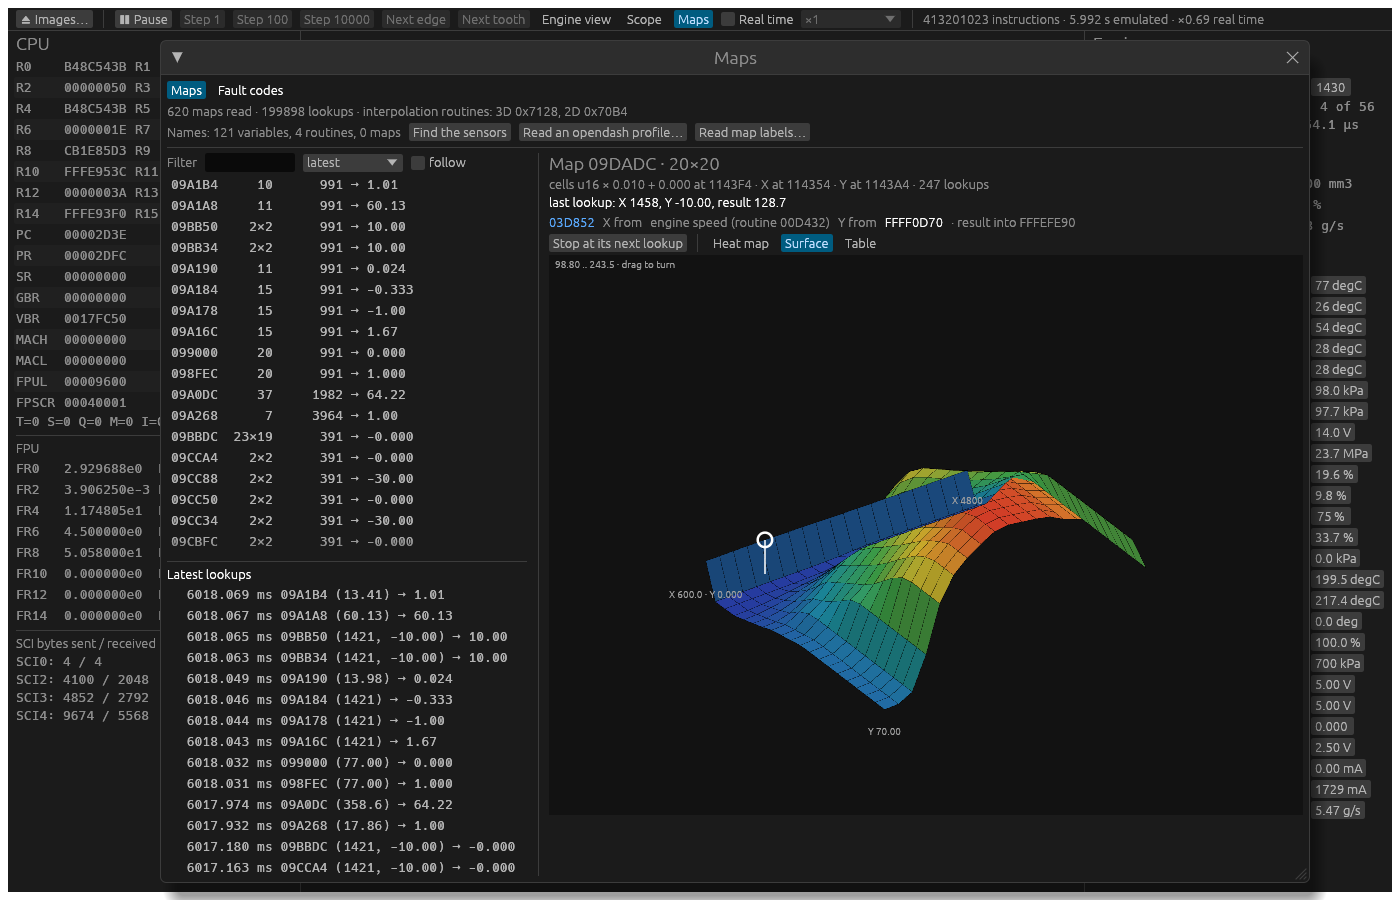
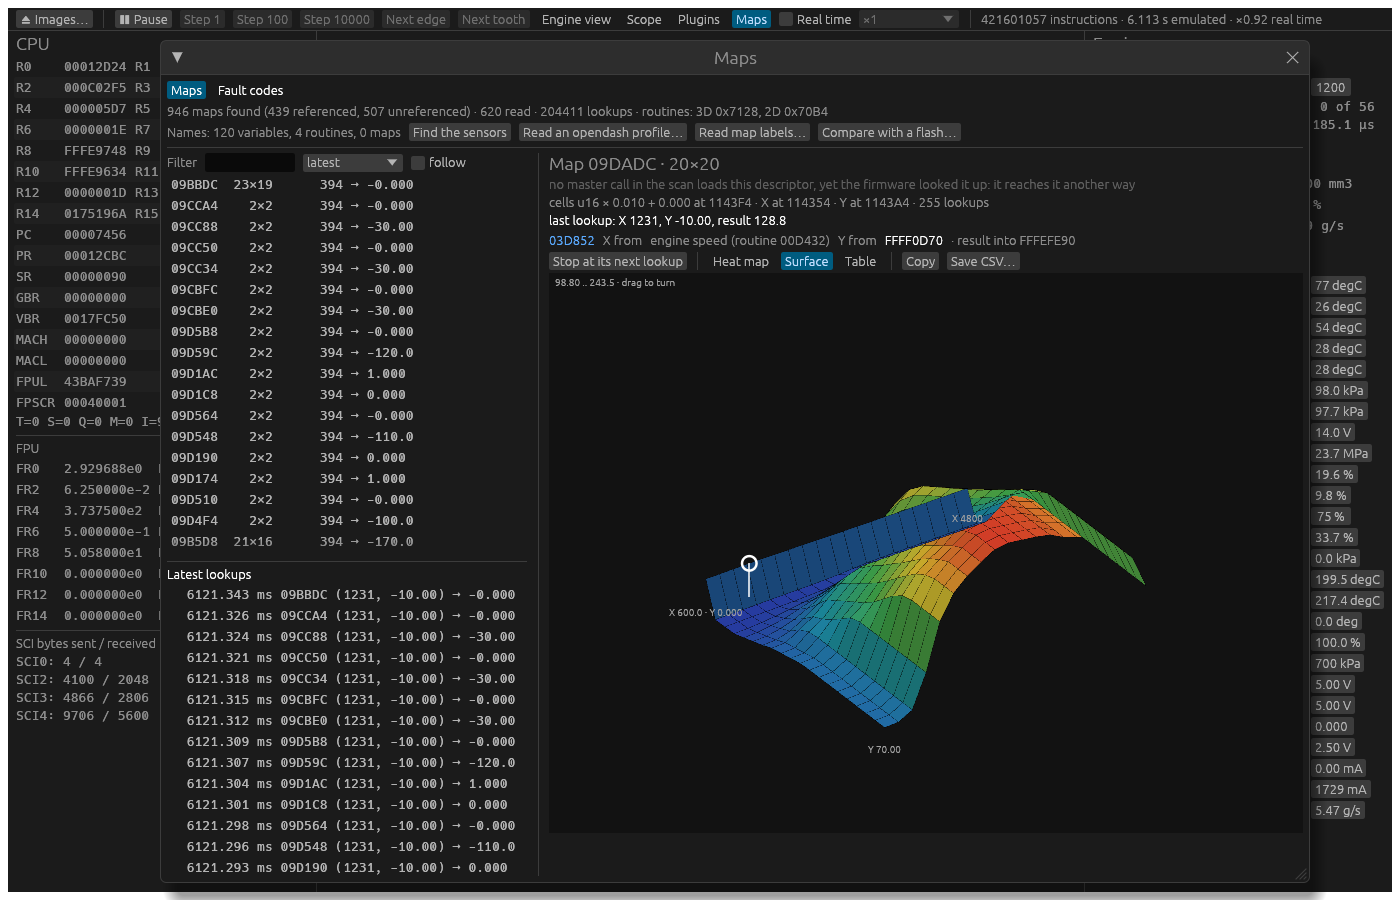
README: comparing with another flash and changing a map, with screenshots; the J2534 DLLs in the download list
- screenshots_map_tools: gui-maps-compare.png and gui-maps-edit.png from the Astra's flash
- a map the scan finds no master call for, but the firmware looks up, is no longer called
  unused nor dimmed in the list

diff --git a/crates/gui/src/app.rs b/crates/gui/src/app.rs
@@ -1252,6 +1252,86 @@ mod tests {
         t.join().unwrap();
     }
 
+    /// The bytes that put `f` of each chosen cell of `map` in its place.
+    fn scaled(map: &session::maps::Map, cells: &[usize], f: f32) -> Vec<(u32, u8)> {
+        let mut writes = Vec::new();
+        for &k in cells {
+            let bytes = crate::mapview::encode(map, map.z[k] * f).expect("fits");
+            let at = map.z_at + k as u32 * map.cell.bytes();
+            writes.extend(
+                bytes
+                    .into_iter()
+                    .enumerate()
+                    .map(|(n, b)| (at + n as u32, b)),
+            );
+        }
+        writes
+    }
+
+    /// The upper-right quarter of a map: high on both axes.
+    fn top_quarter(map: &session::maps::Map) -> Vec<usize> {
+        (0..map.z.len())
+            .filter(|k| k % map.nx() >= map.nx() / 2 && k / map.nx() >= map.ny() / 2)
+            .collect()
+    }
+
+    #[test]
+    #[ignore = "writes docs/img; needs SH705X_FLASH and a GPU or WARP"]
+    fn screenshots_map_tools() {
+        const BOOST: u32 = 0x9DADC;
+        let dir = std::path::Path::new(env!("CARGO_MANIFEST_DIR")).join("../../docs/img");
+        let Some((mut app, t)) = tracing_maps() else {
+            return;
+        };
+        let read = |flash: &[u8], d: u32| {
+            session::maps::Map::read3d(&|a| flash.get(a as usize).copied().unwrap_or(0), d).unwrap()
+        };
+        // A modified file: the boost target 8 % up and the quantity limit 5 % up, both at
+        // high speed and load, as a tuner would.
+        let mut other = app.flash.to_vec();
+        for (d, f) in [(BOOST, 1.08), (0x9B00C, 1.05)] {
+            let map = read(&other, d);
+            for (a, b) in scaled(&map, &top_quarter(&map), f) {
+                other[a as usize] = b;
+            }
+        }
+        app.maps_view = true;
+        app.maps.compare_with("modified.bin", other);
+        app.maps.selected = Some(BOOST);
+        app.maps.mode = crate::mapview::Mode::Diff;
+        let mut h = egui_kittest::Harness::builder()
+            .with_size(egui::vec2(1400.0, 900.0))
+            .build_ui_state(|ui, app: &mut App| app.draw(ui), app);
+        h.run_steps(3);
+        let path = dir.join("gui-maps-compare.png");
+        h.render().unwrap().save(&path).unwrap();
+        eprintln!("{}", path.display());
+        h.state().send(Cmd::Quit);
+        t.join().unwrap();
+        // Three cells of the boost target changed in the running ECU, a fourth chosen.
+        let Some((mut app, t)) = tracing_maps() else {
+            return;
+        };
+        let map = read(&app.flash, BOOST);
+        let row = map.ny() / 2;
+        let cells: Vec<usize> = (3..6).map(|i| row * map.nx() + i).collect();
+        app.poke(scaled(&map, &cells, 1.1));
+        let text = format!("{}", map.at(6, row) * 1.1);
+        app.maps_view = true;
+        app.maps.selected = Some(BOOST);
+        app.maps.mode = crate::mapview::Mode::Table;
+        app.maps.edited_cells(BOOST, &cells, (6, row), &text);
+        let mut h = egui_kittest::Harness::builder()
+            .with_size(egui::vec2(1400.0, 900.0))
+            .build_ui_state(|ui, app: &mut App| app.draw(ui), app);
+        h.run_steps(3);
+        let path = dir.join("gui-maps-edit.png");
+        h.render().unwrap().save(&path).unwrap();
+        eprintln!("{}", path.display());
+        h.state().send(Cmd::Quit);
+        t.join().unwrap();
+    }
+
     #[test]
     #[ignore = "writes docs/img; needs SH705X_FLASH and a GPU or WARP"]
     fn screenshots() {

diff --git a/crates/gui/src/mapview.rs b/crates/gui/src/mapview.rs
@@ -139,6 +139,32 @@ impl MapView {
     }
 }
 
+#[cfg(test)]
+impl MapView {
+    /// Compare with `flash` as "Compare with a flash…" does, listing only what it changes.
+    pub(crate) fn compare_with(&mut self, name: &str, flash: Vec<u8>) {
+        self.other = Some(Other {
+            name: name.into(),
+            flash,
+        });
+        self.diffs.clear();
+        self.filter = "DIFF".into();
+    }
+
+    /// Mark `cells` of `desc` as changed and choose (`i`, `j`), as the editor does.
+    pub(crate) fn edited_cells(
+        &mut self,
+        desc: u32,
+        cells: &[usize],
+        (i, j): (usize, usize),
+        text: &str,
+    ) {
+        self.edited.entry(desc).or_default().extend(cells);
+        self.cell = Some((desc, i, j));
+        self.cell_text = text.into();
+    }
+}
+
 impl Default for MapView {
     fn default() -> Self {
         Self {
@@ -502,7 +528,7 @@ fn list(ui: &mut egui::Ui, trace: &MapTrace, v: &mut MapView, entries: &BTreeMap
                 }
                 let mut rt = egui::RichText::new(text).monospace();
                 // Unreferenced maps (found but not read by the firmware) are dimmed.
-                if e.referenced() == Some(false) {
+                if e.referenced() == Some(false) && e.calls() == 0 {
                     rt = rt.weak();
                 }
                 let r = ui.selectable_label(v.selected == Some(*d), rt);
@@ -571,6 +597,15 @@ fn detail(
                 egui::RichText::new(
                     "referenced · the firmware loads this descriptor before a \
                      master call",
+                )
+                .weak(),
+            );
+        }
+        Some(false) if e.calls() > 0 => {
+            ui.label(
+                egui::RichText::new(
+                    "no master call in the scan loads this descriptor, yet the firmware looked \
+                     it up: it reaches it another way",
                 )
                 .weak(),
             );

diff --git a/README.md b/README.md
@@ -145,6 +145,8 @@ Each [release](https://github.com/PabloSoage/sh705x-emu/releases) carries:
   nothing else installed.
 - the Android app, one APK per ABI: `arm64-v8a` for phones, `x86_64` for the Android
   emulator and x86 devices.
+- `sh705x_j2534_x86.dll` and `sh705x_j2534_x64.dll` with `register.ps1`: the J2534
+  pass-thru DLL (below) for 32-bit tools such as GDS2 and for 64-bit ones.
 
 No firmware comes with any of them: bring your own dump.
 
@@ -193,7 +195,9 @@ cargo build --release -p j2534 --target i686-pc-windows-msvc
 
 The application then lists "sh705x emulated SM3" next to real adapters. It carries
 CAN and ISO 15765 on the high-speed bus (flow-control, pass and block filters, extended
-addressing, padding, loopback, periodic messages). `log=<file>` in
+addressing, padding, loopback, periodic messages). Raw frames that only a pass filter
+claims are delivered too, so GDS2's Data Display gets its periodic data stream (identifier
+0x5E8) and shows the emulated ECU's parameters live. `log=<file>` in
 `%ProgramData%\sh705x\j2534.ini` records every call and frame.
 
 To watch it run, start `sh705x-gui` (on Windows, the `.exe` from a release runs as it is,
@@ -280,6 +284,33 @@ left. The list names a map by what its result becomes: "gives torque asked".*
 ![The boost target as a surface](docs/img/gui-maps-surface.png)
 
 *The boost target (20×20) as a surface, at idle.*
+
+**Comparing with another file.** "Compare with a flash…" reads a second image from your
+disk, as calibration editors compare an original with a modified file: each map is read
+from the same descriptor in both, the list marks the maps that differ with how many cells
+(`Δ100`), and the filter `DIFF` keeps only those. "Differences" shows each cell as this
+flash has it → as the other file has it, coloured by the size of the change.
+
+![Comparing with a modified file: the boost target, raised at high speed and load](docs/img/gui-maps-compare.png)
+
+*Against a copy with the boost target 8 % up and the quantity limit 5 % up in their
+upper quarter: the two maps listed, and the boost target's 100 changed cells in red.*
+
+**Changing a map.** In "Table", click a cell, type the value in physical units and press
+Set: it is stored in the map's own format (float, or 8/16 bits with the descriptor's scale
+and offset; out of range is refused with the limits) in the emulated flash, and also in the
+RAM copy when the firmware reads the map from there. The firmware's next lookups use it,
+which a test checks against the Astra's flash. Changed cells are underlined; "Revert this
+map" puts back the loaded flash's bytes, and "Save flash as…" writes the image with the
+changes. Its checksum is not recomputed: it is for the emulator and for study, not for an
+ECU. Only the emulator's memory changes; nothing is sent anywhere.
+
+"Copy" and "Save CSV…" give any map as text, axes included.
+
+![Three cells of the boost target changed in the running ECU, a fourth chosen](docs/img/gui-maps-edit.png)
+
+*Three cells of the boost target raised 10 % while idling (underlined), and a fourth
+chosen for editing.*
 
 Names come from three places:
 
